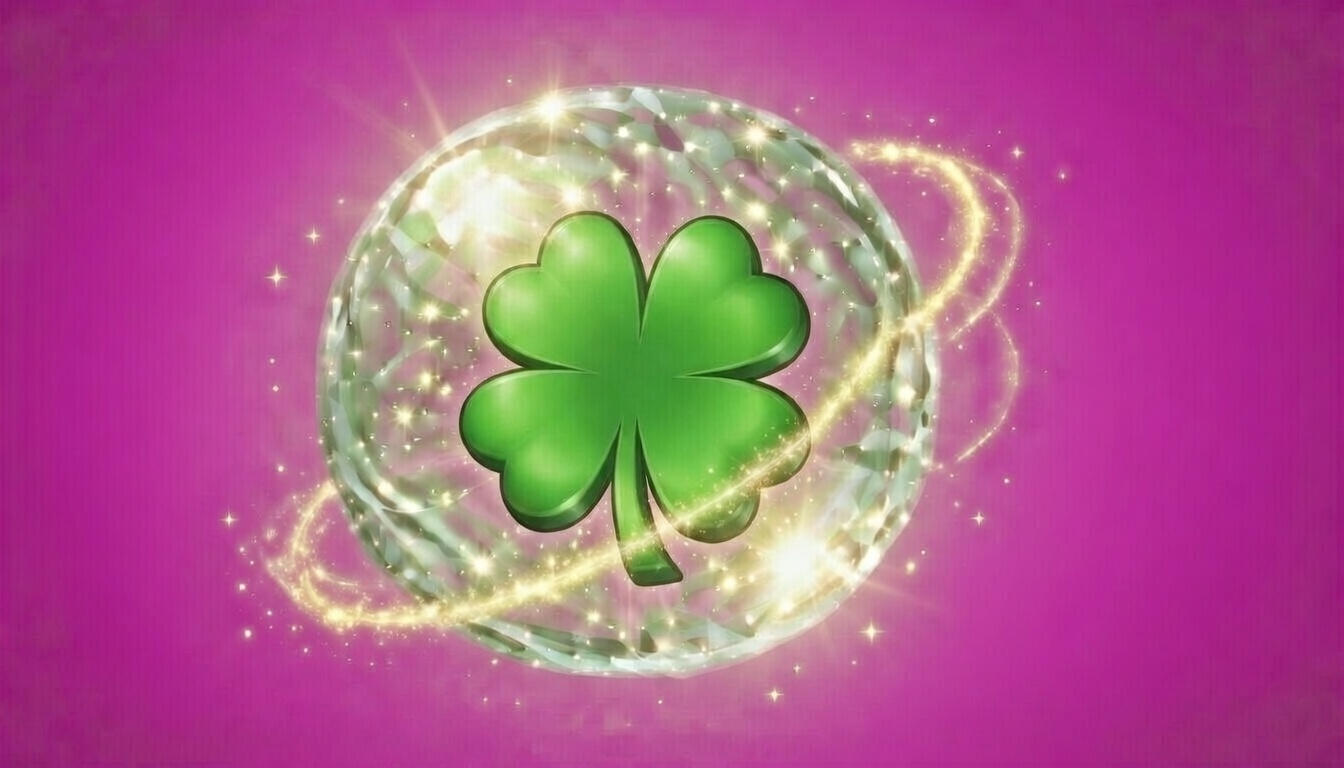
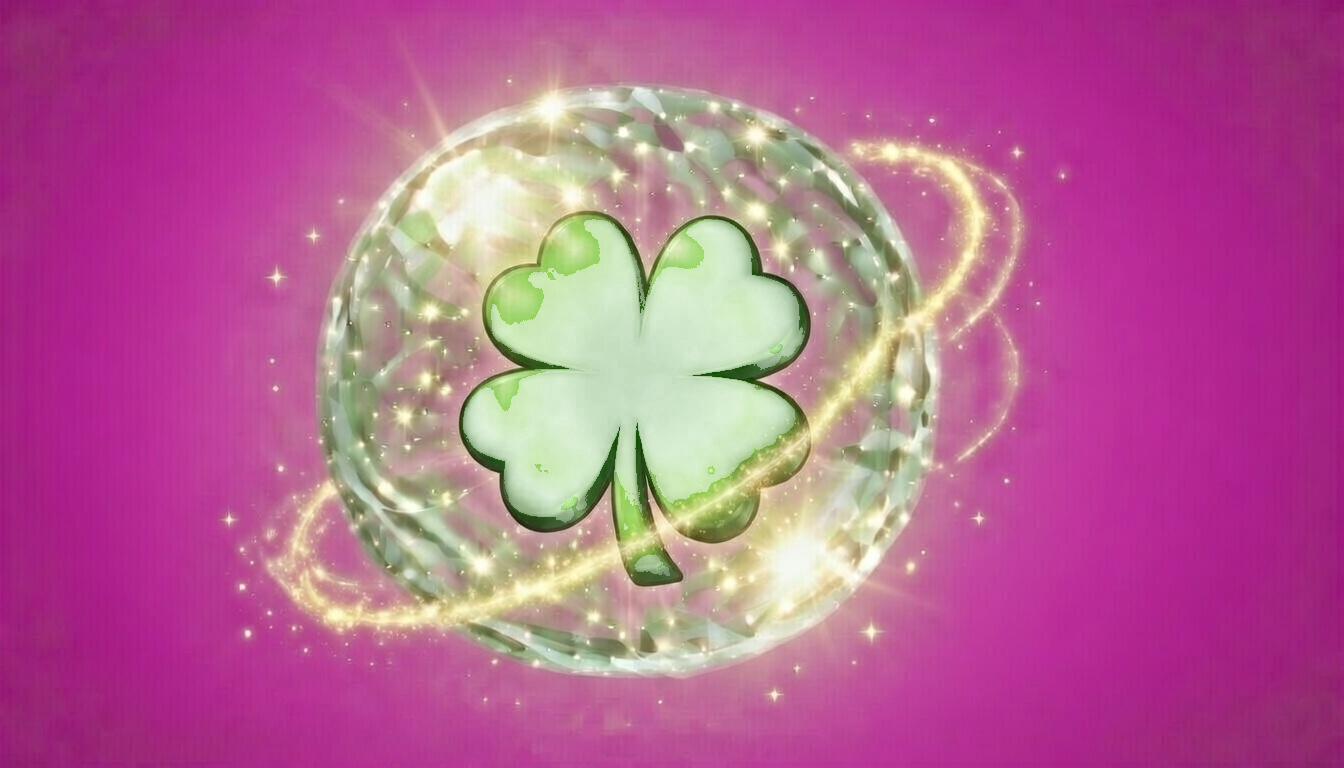
fix(idol): 아이콘 초록 배경 크로마키 제거, SVG clipPath 해제
- 14개 PNG 모두 초록 배경 투명 처리 (numpy chroma key)
- SVG <image> clip-path 제거 → 버블 이미지 원본 비율 그대로 표시

Changed region(s): [[0.3438, 0.2812, 0.5938, 0.6875], [0.4688, 0.7188, 0.5, 0.75]]

diff --git a/js/games/idol-board-iso.js b/js/games/idol-board-iso.js
@@ -187,8 +187,7 @@ function _isoCreateCellGroup(idx, c, r, state) {
     imgEl.setAttribute('y', (cy - halfIcon).toFixed(1));
     imgEl.setAttribute('width', iconSize);
     imgEl.setAttribute('height', iconSize);
-    imgEl.setAttribute('preserveAspectRatio', 'xMidYMid slice');
-    imgEl.setAttribute('clip-path', 'url(#isoIconClip)');
+    imgEl.setAttribute('preserveAspectRatio', 'xMidYMid meet');
     imgEl.setAttribute('pointer-events', 'none');
     // 셀마다 다른 타이밍으로 둥실 애니메이션 (음수 딜레이 = 즉시 다른 위상에서 시작)
     const floatDur  = (2.4 + (idx % 4) * 0.3).toFixed(1);
